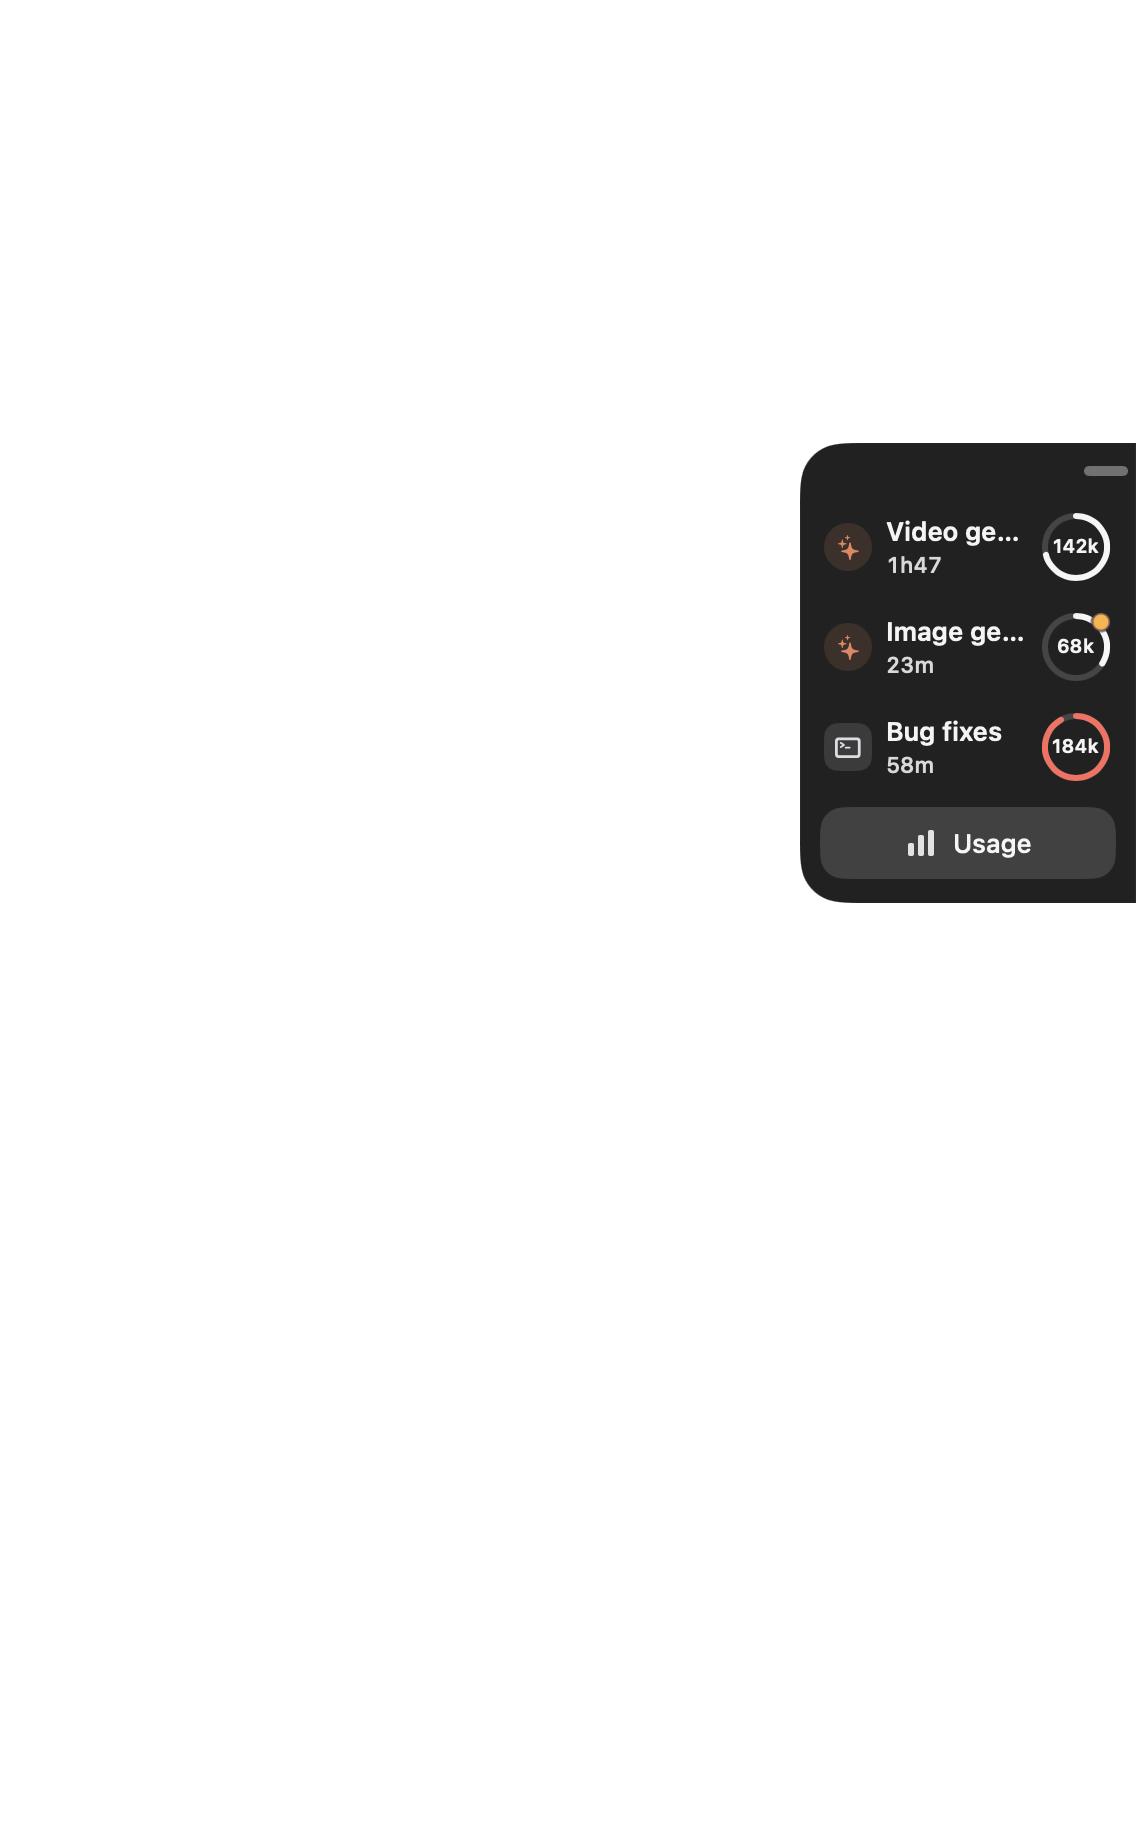
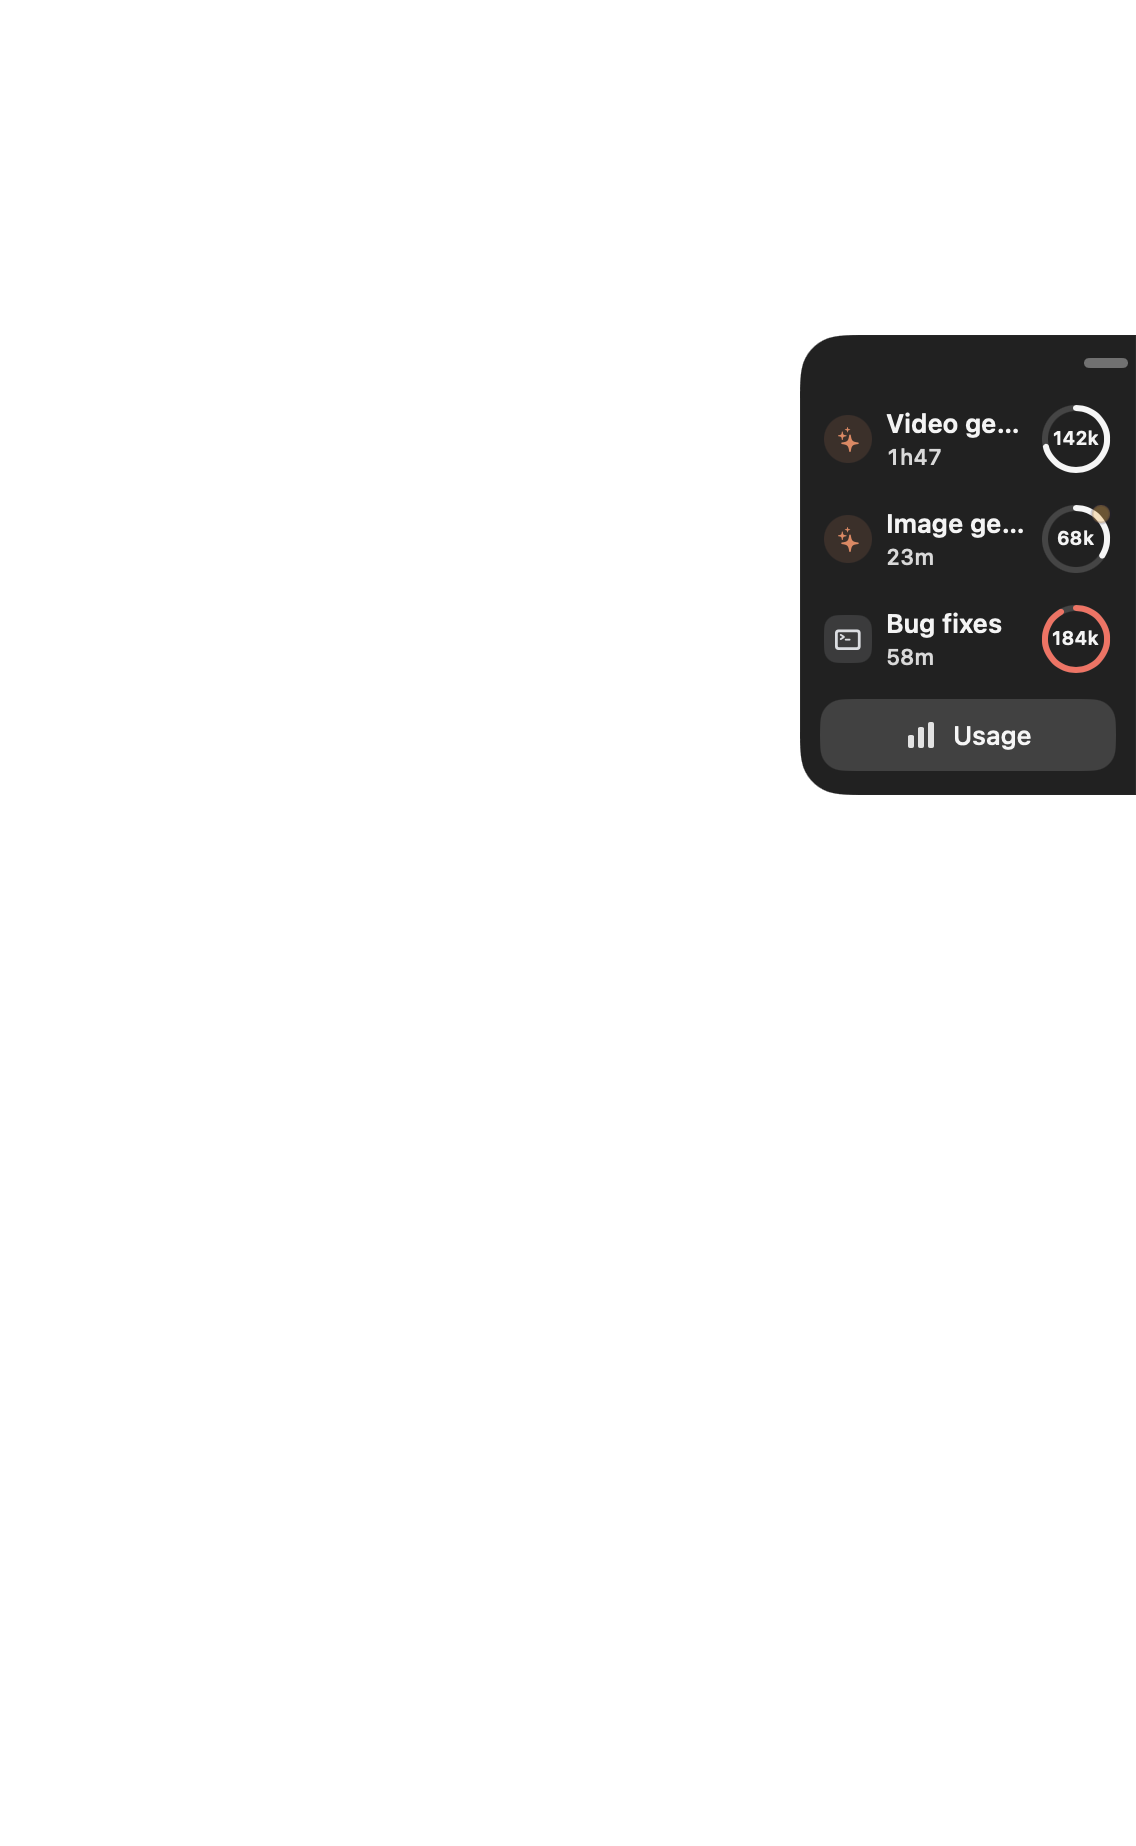
Smooth session strip drag placement

Changed region(s): [[0.6778, 0.1544, 1.0, 0.494]]

diff --git a/Packages/UsageKit/Tests/UsagePresentationTests/StripLayoutTests.swift b/Packages/UsageKit/Tests/UsagePresentationTests/StripLayoutTests.swift
@@ -45,12 +45,28 @@ struct StripLayoutTests {
         let start: CGFloat = -40
         let limit: CGFloat = 300
         let path: [CGFloat] = [-10, -60, -35]
-        #expect(path.map { StripLayout.dragged(from: start, by: $0, limit: limit) } == [-50, -100, -75])
+        #expect(path.map { StripLayout.dragged(logicalOrigin: start, by: $0, limit: limit) } == [-50, -100, -75])
         // It is where it was dropped, not where the pointer went past the edge.
-        #expect(StripLayout.dragged(from: start, by: -900, limit: limit) == -300)
-        #expect(StripLayout.dragged(from: start, by: 900, limit: limit) == 300)
+        #expect(StripLayout.dragged(logicalOrigin: start, by: -900, limit: limit) == -300)
+        #expect(StripLayout.dragged(logicalOrigin: start, by: 900, limit: limit) == 300)
         // A press that has not moved leaves it exactly where it was.
-        #expect(StripLayout.dragged(from: start, by: 0, limit: limit) == start)
+        #expect(StripLayout.dragged(logicalOrigin: start, by: 0, limit: limit) == start)
+    }
+
+    @Test func aDragAwayFromCentreStartsAtItsLogicalRestingOffset() {
+        let logicalStart: CGFloat = -100
+        let visualStart = StripLayout.place(
+            contentHeight: full, restHeight: rest, available: available, offset: logicalStart
+        ).offset
+        let movedLogical = StripLayout.dragged(logicalOrigin: logicalStart, by: -5, limit: 300)
+        let movedVisual = StripLayout.place(
+            contentHeight: full, restHeight: rest, available: available, offset: movedLogical
+        ).offset
+
+        // Moving the pointer upward must move the strip upward from where it was drawn,
+        // without first jumping towards the middle.
+        #expect(movedVisual < visualStart)
+        #expect(visualStart - movedVisual <= 5)
     }
 
     @Test func theThresholdIsSmallEnoughToFeelImmediateAndBigEnoughToSurviveAClick() {
@@ -79,6 +95,19 @@ struct StripLayoutTests {
         #expect(placed.scrolls == false)
     }
 
+    @Test func draggingThroughTheMiddleIsContinuousAndMonotonic() {
+        let pointerOffsets = stride(from: CGFloat(-200), through: 200, by: 1)
+        let placedOffsets = pointerOffsets.map {
+            StripLayout.place(contentHeight: full, restHeight: rest, available: available, offset: $0).offset
+        }
+
+        for (previous, next) in zip(placedOffsets, placedOffsets.dropFirst()) {
+            // A one-point pointer movement cannot send the strip backwards or make it jump.
+            #expect(next >= previous)
+            #expect(next - previous <= 1.001)
+        }
+    }
+
     @Test func theForcedDragStateMovesBeforeTheRestingHeightHasBeenMeasured() {
         let centered = StripLayout.place(contentHeight: 240, restHeight: 0, available: available, offset: 0)
         let dragged = StripLayout.place(
@@ -86,21 +115,19 @@ struct StripLayoutTests {
             offset: StripLayout.forcedDragOffset
         )
         #expect(centered.offset == 0)
-        #expect(dragged.offset == -120)
+        #expect(abs(dragged.offset + 176) < 0.001)
     }
 
     @Test func nearTheTopItGrowsDownwards() {
-        // Dragged 200pt up: its top edge is 100pt from the top of the screen.
+        // Two-thirds of the way to the top, two-thirds of the added height grows downwards.
         let placed = StripLayout.place(contentHeight: full, restHeight: rest, available: available, offset: -200)
-        // The top edge stays at 100; the middle is then 100 + 250 = 350, which is 100 above the
-        // screen's middle. Nothing is cut off the top.
-        #expect(placed.offset == -100)
+        #expect(abs(placed.offset + 400 / 3) < 0.001)
         #expect(placed.offset - placed.height / 2 + available / 2 >= 0)
     }
 
     @Test func nearTheBottomItGrowsUpwards() {
         let placed = StripLayout.place(contentHeight: full, restHeight: rest, available: available, offset: 200)
-        #expect(placed.offset == 100)
+        #expect(abs(placed.offset - 400 / 3) < 0.001)
         #expect(placed.offset + placed.height / 2 + available / 2 <= available)
     }
 

diff --git a/Packages/UsageKit/Sources/UsagePresentation/ViewModels/StripLayout.swift b/Packages/UsageKit/Sources/UsagePresentation/ViewModels/StripLayout.swift
@@ -56,8 +56,8 @@ public enum StripLayout {
 
     /// Where the strip ends up: where it was when the drag began, plus how far the pointer has
     /// moved, kept inside `limit` so the strip cannot be dragged off the screen.
-    public static func dragged(from start: CGFloat, by movement: CGFloat, limit: CGFloat) -> CGFloat {
-        min(max(start + movement, -limit), limit)
+    public static func dragged(logicalOrigin: CGFloat, by movement: CGFloat, limit: CGFloat) -> CGFloat {
+        min(max(logicalOrigin + movement, -limit), limit)
     }
 
     /// Where something of `height` sits on the edge, and whether it has to scroll.
@@ -70,10 +70,11 @@ public enum StripLayout {
         public let scrolls: Bool
     }
 
-    /// Where the strip goes when it grows. It grows downwards from where it sits while it is in
-    /// the top half of the screen, and upwards while it is in the bottom half, so the sessions
-    /// under the pointer stay where they were. Whatever happens it stays on the screen, and a
-    /// list too long for the screen fills the height and scrolls.
+    /// Where the strip goes when it grows. Its growth progressively favours the nearer screen
+    /// edge: centred strips grow equally in both directions, while a strip resting at an edge
+    /// keeps that edge fixed. The continuous blend between those positions lets a drag follow
+    /// the pointer without jumping as it crosses the middle. Whatever happens it stays on the
+    /// screen, and a list too long for the screen fills the height and scrolls.
     ///
     /// - Parameters:
     ///   - contentHeight: how tall the strip wants to be.
@@ -84,17 +85,17 @@ public enum StripLayout {
         contentHeight: CGFloat, restHeight: CGFloat, available: CGFloat, offset: CGFloat
     ) -> Placement {
         let height = min(contentHeight, available)
-        let restTop = (available - restHeight) / 2 + offset
-        // In the top half it keeps its top edge and grows downwards; in the bottom half it
-        // keeps its bottom edge and grows upwards; in the middle it grows both ways.
-        let wanted = switch offset {
-        case ..<0: restTop
-        case 0: restTop + (restHeight - height) / 2
-        default: restTop + restHeight - height
-        }
-        let top = min(max(wanted, 0), max(available - height, 0))
+        let restingHeight = min(restHeight, height)
+        let growthOnEachSide = (height - restingHeight) / 2
+        let restingTravel = max((available - restingHeight) / 2, 0)
+        let edgeBias = restingTravel > 0
+            ? min(max(offset / restingTravel, -1), 1)
+            : 0
+        let wantedOffset = offset - edgeBias * growthOnEachSide
+        let limit = max((available - height) / 2, 0)
+        let placedOffset = min(max(wantedOffset, -limit), limit)
         return Placement(
-            height: height, offset: top + height / 2 - available / 2, scrolls: contentHeight > available
+            height: height, offset: placedOffset, scrolls: contentHeight > available
         )
     }
 

diff --git a/Packages/UsageKit/Sources/UsagePresentation/Views/StripView.swift b/Packages/UsageKit/Sources/UsagePresentation/Views/StripView.swift
@@ -21,6 +21,10 @@ struct StripView: View {
     let availableHeight: CGFloat
     /// How far the strip sits from the middle of the edge, and whether it is being dragged.
     let offset: CGFloat
+    /// Its stored resting position. Placement may shift the expanded strip away from this,
+    /// but pointer movement must continue from the stored value rather than feeding that
+    /// visual shift back into the model.
+    let dragOrigin: CGFloat
     let isDragging: Bool
     /// How tall the strip is at rest, so a drag stops where it would leave the screen.
     let restHeight: CGFloat
@@ -51,7 +55,14 @@ struct StripView: View {
         .contentShape(.rect)
         .offset(y: offset)
         .onHover(perform: onPointer)
-        .animation(reduceMotion ? nil : .easeOut(duration: 0.18), value: model.isExpanded)
+        // Hover and drop transitions ease into place. Pointer frames stay unanimated while
+        // dragging, so the strip remains directly under the pointer instead of lagging behind it.
+        .animation(transitionAnimation, value: model.isExpanded)
+        .animation(transitionAnimation, value: offset)
+    }
+
+    private var transitionAnimation: Animation? {
+        reduceMotion || isDragging ? nil : .easeOut(duration: 0.18)
     }
 
     /// The bar at the top of the strip, and the only place a move gesture begins.
@@ -75,11 +86,16 @@ struct StripView: View {
         DragGesture(minimumDistance: StripLayout.dragThreshold, coordinateSpace: .local)
             .onChanged { value in
                 if start == nil {
-                    start = offset
+                    start = dragOrigin
                     onDragBegin()
                 }
                 guard let start else { return }
-                onDrag(StripLayout.dragged(from: start, by: value.translation.height, limit: dragLimit), dragLimit)
+                onDrag(
+                    StripLayout.dragged(
+                        logicalOrigin: start, by: value.translation.height, limit: dragLimit
+                    ),
+                    dragLimit
+                )
             }
             .onEnded { _ in
                 guard start != nil else { return }

diff --git a/Packages/UsageKit/Sources/UsagePresentation/ViewModels/OverlayViewModel.swift b/Packages/UsageKit/Sources/UsagePresentation/ViewModels/OverlayViewModel.swift
@@ -257,7 +257,7 @@ public final class OverlayViewModel {
     ///   - limit: how far it may go before it would leave the screen.
     public func dragStrip(to offset: CGFloat, limit: CGFloat) {
         guard isDraggingStrip else { return }
-        stripOffset = StripLayout.dragged(from: offset, by: 0, limit: limit)
+        stripOffset = StripLayout.dragged(logicalOrigin: offset, by: 0, limit: limit)
     }
 
     public func endStripDrag() {

diff --git a/Packages/UsageKit/Sources/UsagePresentation/Views/OverlayView.swift b/Packages/UsageKit/Sources/UsagePresentation/Views/OverlayView.swift
@@ -65,6 +65,7 @@ public struct OverlayView: View {
                         model: model,
                         availableHeight: availableHeight,
                         offset: strip.offset,
+                        dragOrigin: viewModel.stripOffset,
                         isDragging: viewModel.isDraggingStrip,
                         restHeight: restStripHeight,
                         onPointer: { inside in
